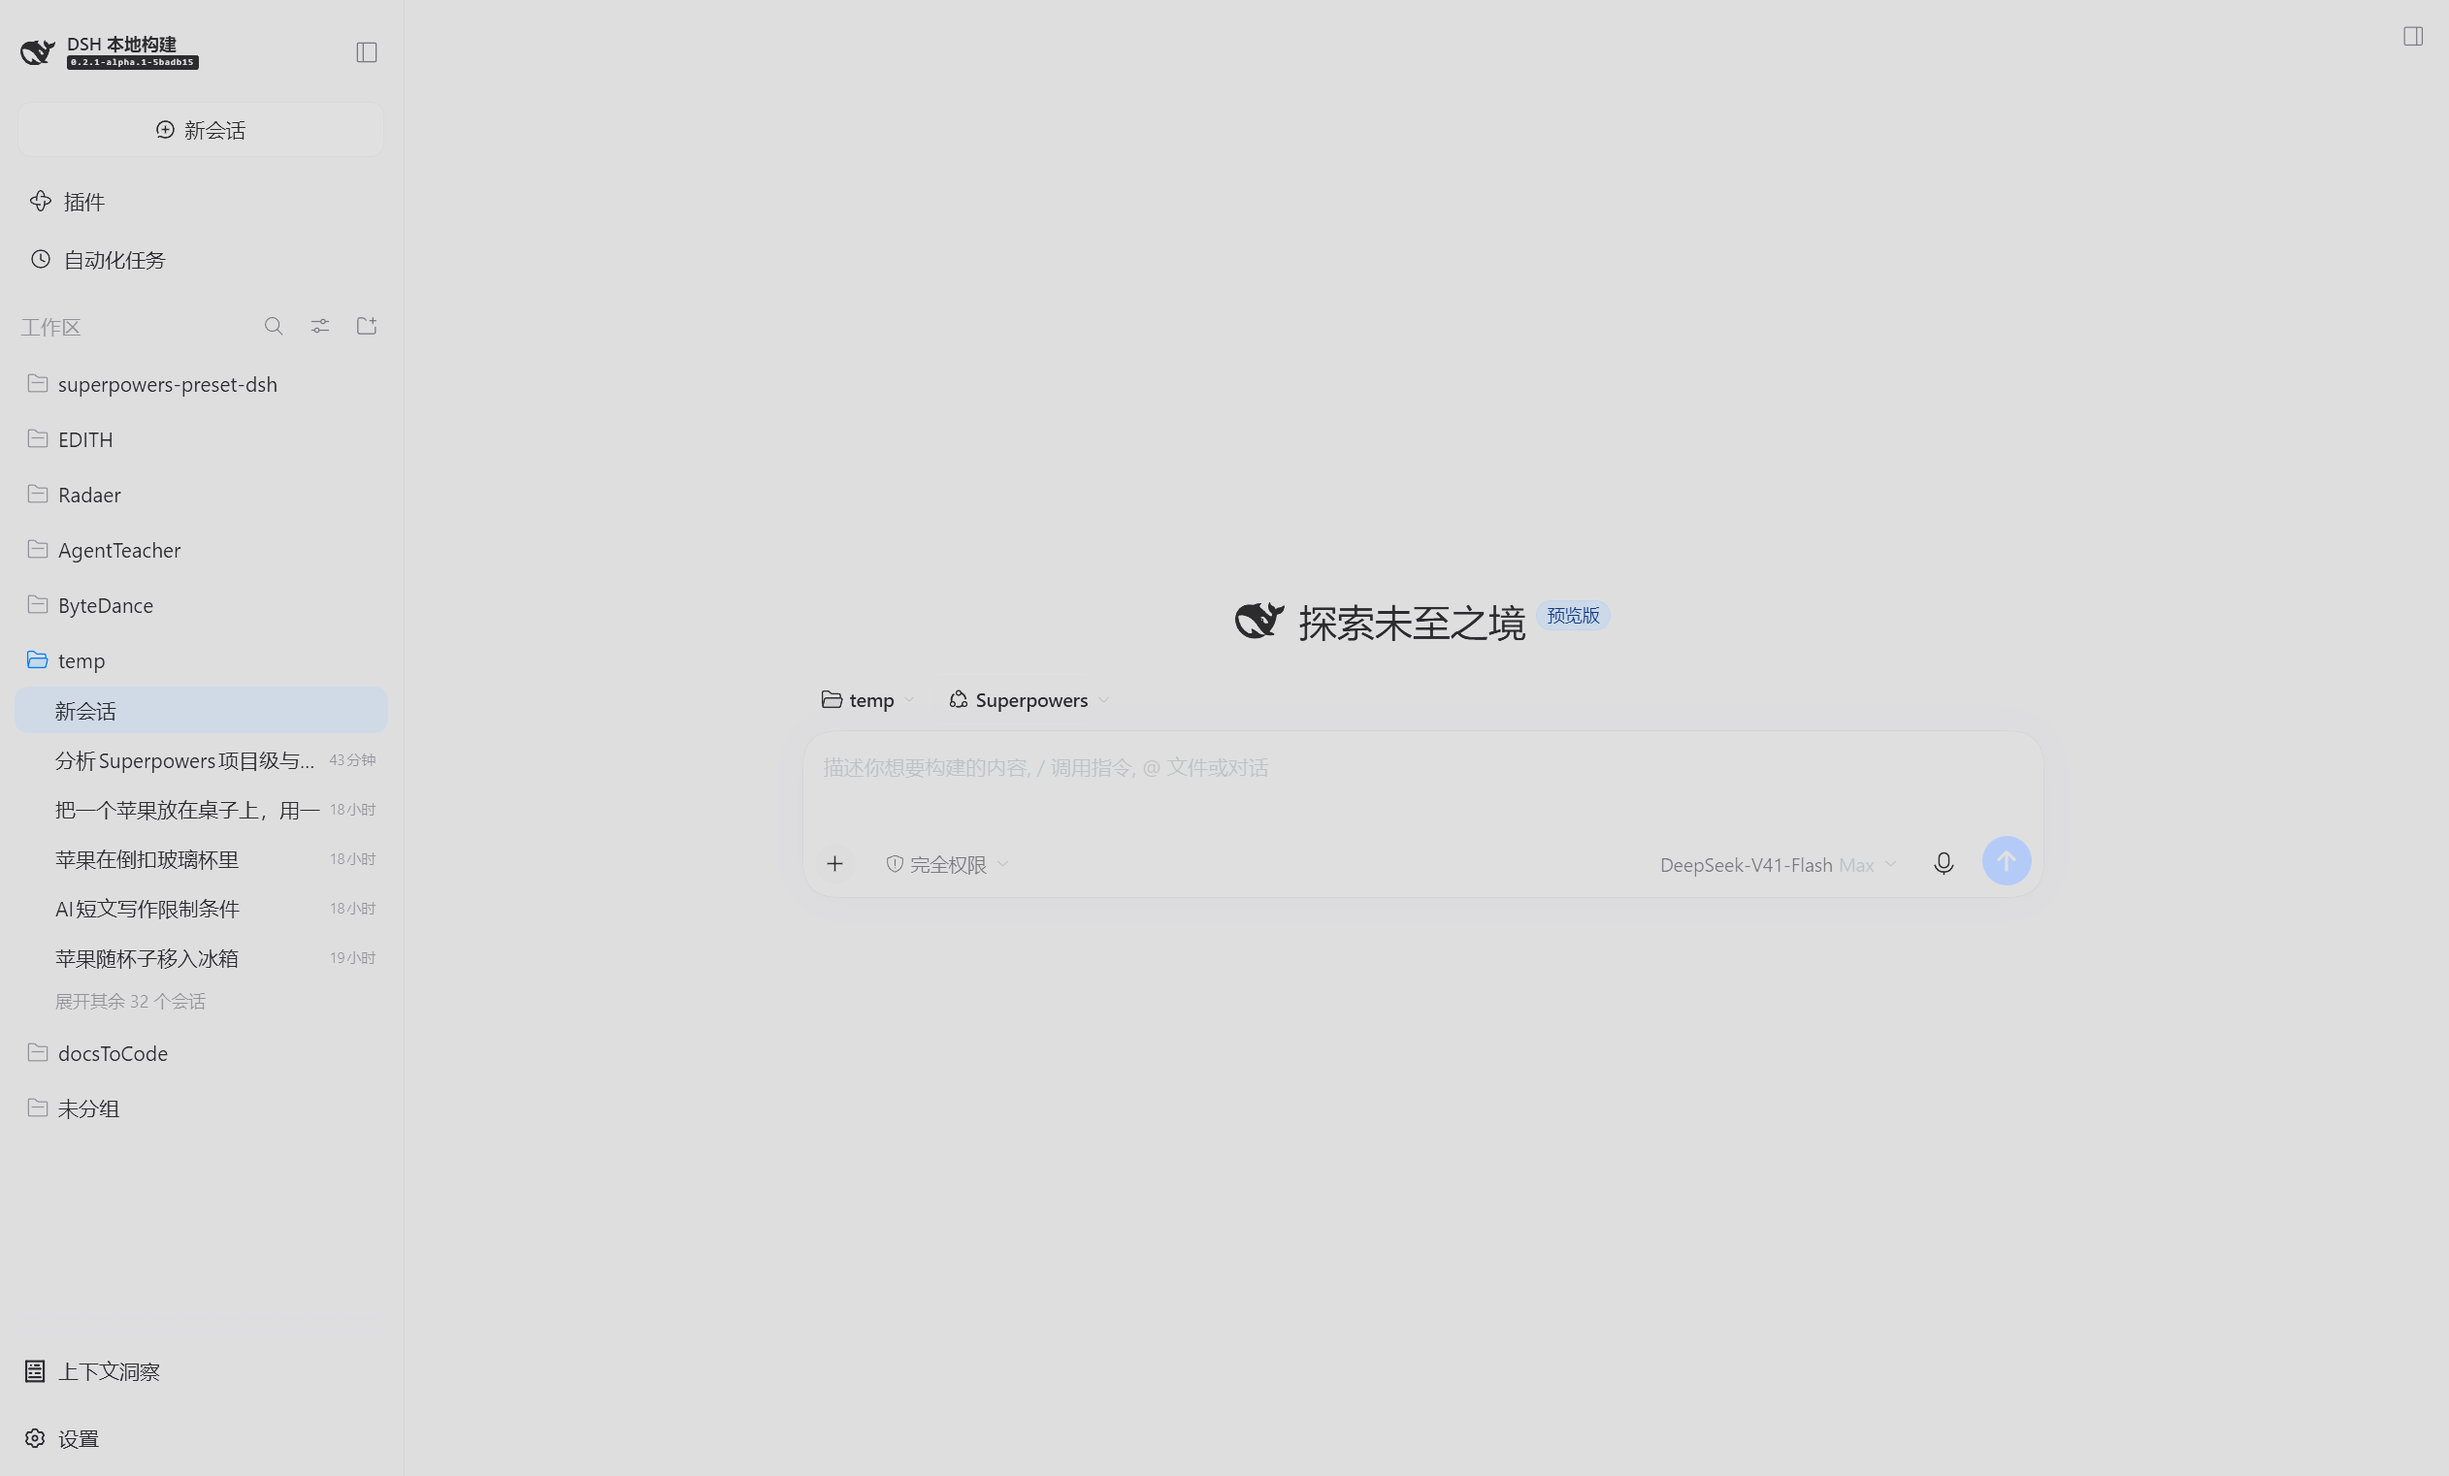
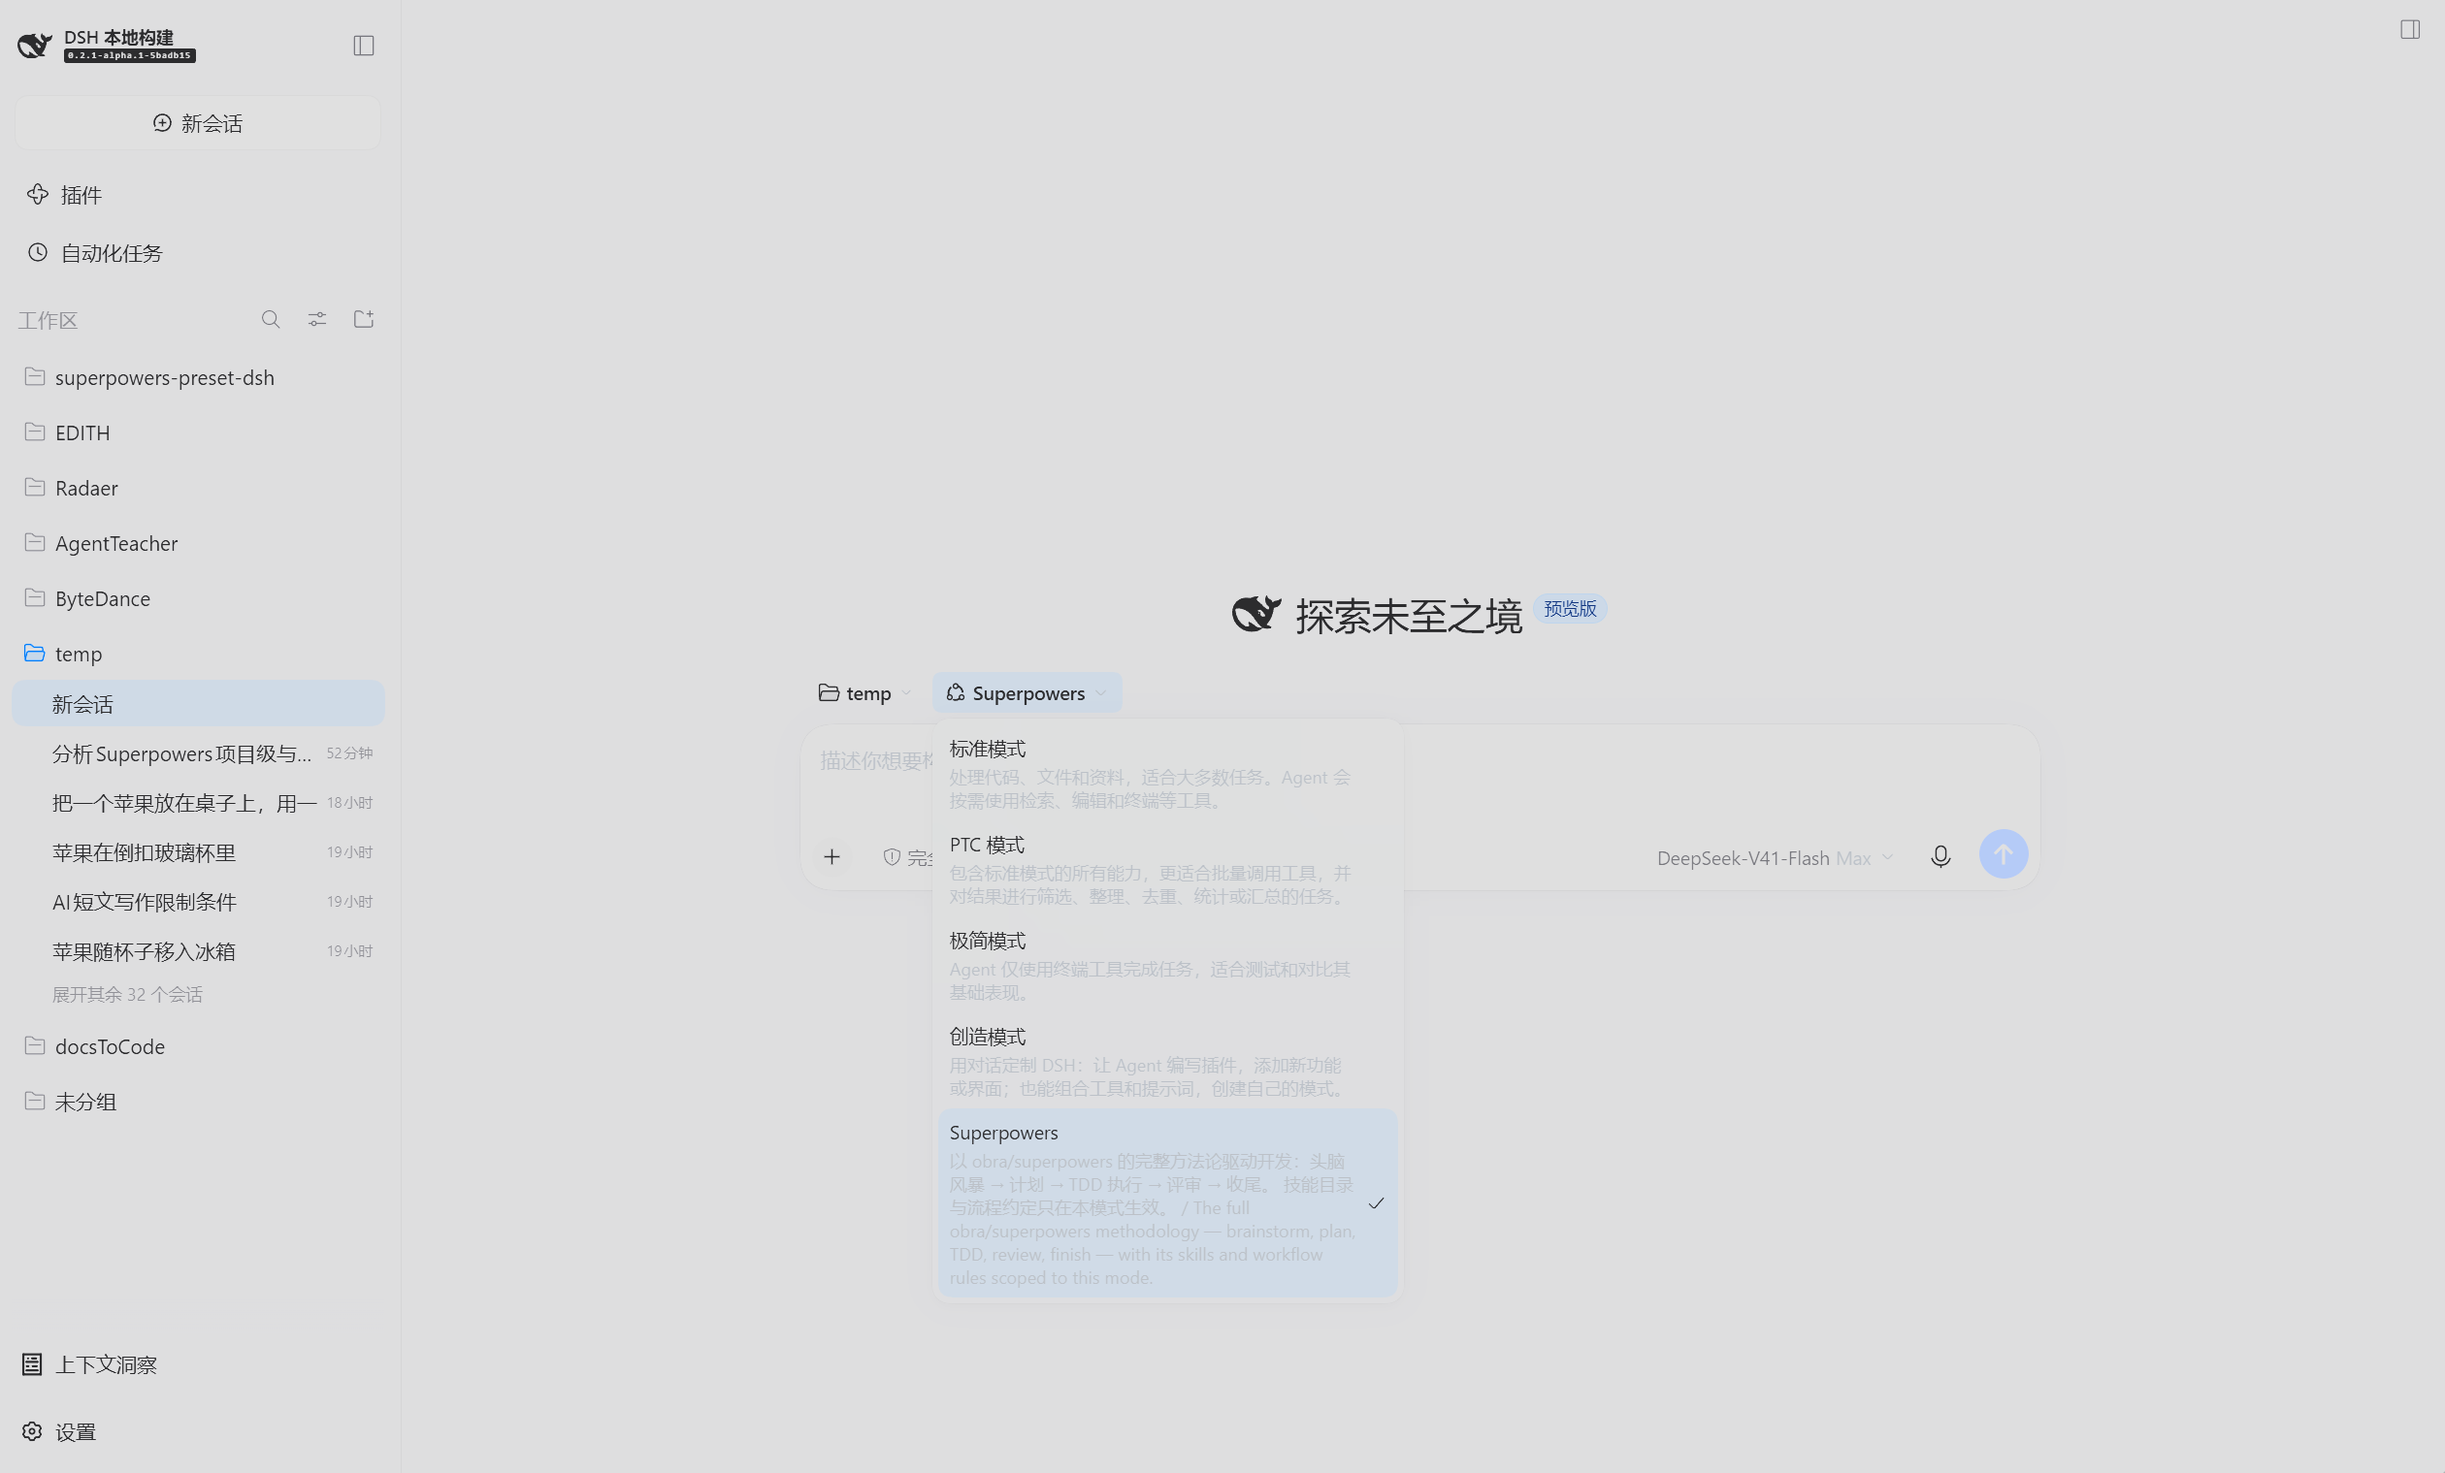
README: correct and document exactly which install paths were verified
- Option 1 overstated the agent flow: an agent cannot restart the profile it is
  running in, and it needs a usable 'dsh' on PATH. Both are now stated.
- The npx fallback now warns that npm's 'latest' tag can lag the running
  harness, with a pinned-version example and the pnpm dlx equivalent.
- New tables record what 1.0.0 actually exercised, including the two things it
  did not: the agent-mediated flow verbatim, and npx itself (this machine's
  Volta npm installation is broken, so the equivalent published-CLI path was
  verified with pnpm dlx instead).

diff --git a/README.md b/README.md
@@ -59,7 +59,11 @@
 帮我安装这个插件：https://github.com/EdouardRichard/superpowers-preset-dsh
 ```
 
-它会完成安装并重启 profile，你刷新浏览器即可。
+它会调用 `dsh plugin ... add` 完成安装并验证组合。**但它不能替你重启 profile**
+——重启会终止它自己所在的会话。所以装完你要手动重启并刷新浏览器。
+
+> 前提：Agent 能找到一个可用的 `dsh`。如果你的 `dsh` 没有加到 `PATH`，
+> 把下面方式二里的完整命令直接发给它更稳妥。
 
 ### 方式二：命令行
 
@@ -68,13 +72,20 @@
 dsh plugin --profile web add github:EdouardRichard/superpowers-preset-dsh
 ```
 
-没有全局安装 `dsh` 时，用 `npx`：
+`dsh` 没有在 `PATH` 里时，用 `npx` 跑同一个 CLI：
 
 ```sh
-npx @deepseek-ai/dsh plugin --profile web add github:EdouardRichard/superpowers-preset-dsh
+npx --yes @deepseek-ai/dsh plugin --profile web add github:EdouardRichard/superpowers-preset-dsh
 ```
 
-`--profile` 换成你实际用的 profile（`web` / `headless` / 自定义）。
+> ⚠ `npx` 默认取 npm 的 `latest` 标签，它可能**落后于**你正在运行的
+> harness（例如 npm 上 `latest = 0.2.0-rc.2`，而你在跑 `0.2.1-alpha.1`）。
+> 版本对不上时显式指定，例如
+> `npx --yes @deepseek-ai/dsh@0.2.1-alpha.1 plugin ...`。
+> 用 pnpm 的话，`pnpm dlx @deepseek-ai/dsh@<版本> plugin ...` 等价。
+
+`--profile` 换成你实际用的 profile（`web` / `headless` / 自定义）。profile 不存在时
+会被自动初始化。
 
 ### 方式三：从本地目录安装
 
@@ -83,7 +94,8 @@ git clone https://github.com/EdouardRichard/superpowers-preset-dsh
 dsh plugin --profile web add ./superpowers-preset-dsh
 ```
 
-本地目录是 **link 安装**（不是复制），改完这个目录重启 profile 就生效，方便自己改。
+相对路径按**你执行命令时所在的目录**解析，安装后记为该目录的绝对 link。本地目录是
+**link 安装**（不是复制），改完这个目录重启 profile 就生效，方便自己改。
 
 ### 装完要重启
 
@@ -97,7 +109,8 @@ dsh --profile web --dump-config | Select-String superpowers-preset-dsh
 ```
 
 输出里应该能看到 `- id: preset-superpowers` 这一段，以及
-`name: superpowers-preset-dsh/skills` 这一行。
+`name: superpowers-preset-dsh/skills` 这一行。看到这两行说明层已经组合进
+profile；重启后新建任务时就能在模式列表里选到「Superpowers」。
 
 ### 卸载
 
@@ -306,7 +319,21 @@ dsh --profile sptest --port 3099 --no-open
   这 15 个技能；
 - 标准模式任务的系统提示词里没有它，技能目录里也没有它们。
 
-本仓库的 `1.0.0` 就是这么验的。
+### `1.0.0` 实际验过什么
+
+| 项目 | 状态 |
+| --- | --- |
+| `npm run verify` | 8 项检查通过 |
+| `dsh plugin --profile <p> add <本地绝对路径>` | 实测通过 |
+| `dsh plugin --profile <p> add ./相对路径` | 实测通过（按执行目录解析为绝对 link） |
+| `dsh plugin --profile <p> add github:EdouardRichard/superpowers-preset-dsh` | 实测通过（干净 profile，含 `--dump-config` 组合校验） |
+| `pnpm dlx @deepseek-ai/dsh@0.2.1-alpha.1 plugin --profile <新 profile> add github:...` | 实测通过（验证 npm 已发布 CLI + 首次自动初始化 profile；`npx` 形式与此等价） |
+| `dsh plugin --profile <p> remove superpowers-preset-dsh` | 实测通过：依赖与 `dsh.profile.bundles` 条目一并移除，组合里不再有该预设 |
+| 端到端会话对比 | 实测通过（见上） |
+| **方式一「让 DSH 自己装」** | **未逐字实测**。它是把命令行交给 Agent 执行，能否成功取决于 Agent 能否找到可用的 `dsh`；重启 profile 必须由你手动做 |
+| `npx @deepseek-ai/dsh ...` 本身 | **未在本机实测**（本机 Volta 的 npm 安装已损坏，`npx` 无法运行）；已用 `pnpm dlx` 跑同一个已发布 CLI 验证等价路径 |
+
+验证环境：DSH `0.2.1-alpha.1`，Windows，Node 24.18.1。
 
 ## 许可证与致谢
 

diff --git a/README.en.md b/README.en.md
@@ -64,8 +64,12 @@ Start a conversation in DSH and send:
 Install this plugin for me: https://github.com/EdouardRichard/superpowers-preset-dsh
 ```
 
-It will install the bundle and restart the profile; refresh your browser
-afterwards.
+It will run `dsh plugin ... add` and verify the composition. **It cannot restart
+the profile for you** — that would kill the session it is running in. Restart the
+profile yourself and refresh the browser.
+
+> Prerequisite: the agent needs a usable `dsh`. If yours is not on `PATH`, paste
+> it the full command from Option 2 instead.
 
 ### Option 2 — the command line
 
@@ -73,14 +77,20 @@ afterwards.
 dsh plugin --profile web add github:EdouardRichard/superpowers-preset-dsh
 ```
 
-Without a global `dsh`, use `npx`:
+Without a global `dsh`, run the same CLI through `npx`:
 
 ```sh
-npx @deepseek-ai/dsh plugin --profile web add github:EdouardRichard/superpowers-preset-dsh
+npx --yes @deepseek-ai/dsh plugin --profile web add github:EdouardRichard/superpowers-preset-dsh
 ```
 
+> ⚠ `npx` resolves npm's `latest` tag, which can **lag behind** the harness you
+> are running (npm currently has `latest = 0.2.0-rc.2` while this was verified on
+> `0.2.1-alpha.1`). Pin the version when they differ:
+> `npx --yes @deepseek-ai/dsh@0.2.1-alpha.1 plugin ...`.
+> With pnpm, `pnpm dlx @deepseek-ai/dsh@<version> plugin ...` is equivalent.
+
 Replace `--profile` with the profile you actually run (`web`, `headless`, or your
-own).
+own). A profile that does not exist yet is initialized automatically.
 
 ### Option 3 — from a local checkout
 
@@ -89,8 +99,10 @@ git clone https://github.com/EdouardRichard/superpowers-preset-dsh
 dsh plugin --profile web add ./superpowers-preset-dsh
 ```
 
-A local directory installs as a **link**, not a copy, so your edits take effect on
-the next profile restart — convenient while customising.
+A relative path resolves against the directory you run the command from, and is
+recorded as an absolute link to that directory. A local directory installs as a
+**link**, not a copy, so your edits take effect on the next profile restart —
+convenient while customising.
 
 ### A restart is required
 
@@ -334,7 +346,21 @@ transcripts:
   its skill catalog lists all 15 skills;
 - the Standard task's system prompt does not, and its catalog does not.
 
-That is exactly how `1.0.0` was verified.
+### What `1.0.0` actually exercised
+
+| Item | Status |
+| --- | --- |
+| `npm run verify` | 8 checks pass |
+| `dsh plugin --profile <p> add <absolute local path>` | Verified |
+| `dsh plugin --profile <p> add ./relative-path` | Verified (resolved against the invoking directory, recorded as an absolute link) |
+| `dsh plugin --profile <p> add github:EdouardRichard/superpowers-preset-dsh` | Verified on a clean profile, including `--dump-config` composition |
+| `pnpm dlx @deepseek-ai/dsh@0.2.1-alpha.1 plugin --profile <new> add github:...` | Verified — exercises the npm-published CLI and first-use profile initialization; `npx` is the equivalent form |
+| `dsh plugin --profile <p> remove superpowers-preset-dsh` | Verified: both the dependency and the `dsh.profile.bundles` entry are removed, and the preset leaves the composition |
+| End-to-end session comparison | Verified (above) |
+| **Option 1 "let DSH install it"** | **Not tested verbatim.** It hands the command line to an agent; success depends on that agent finding a usable `dsh`, and the profile restart is yours to do |
+| `npx @deepseek-ai/dsh ...` itself | **Not run on this machine** (its Volta npm installation is broken and `npx` cannot start). The equivalent path was verified with `pnpm dlx` against the same published CLI |
+
+Environment: DSH `0.2.1-alpha.1`, Windows, Node 24.18.1.
 
 ## License and credits
 
